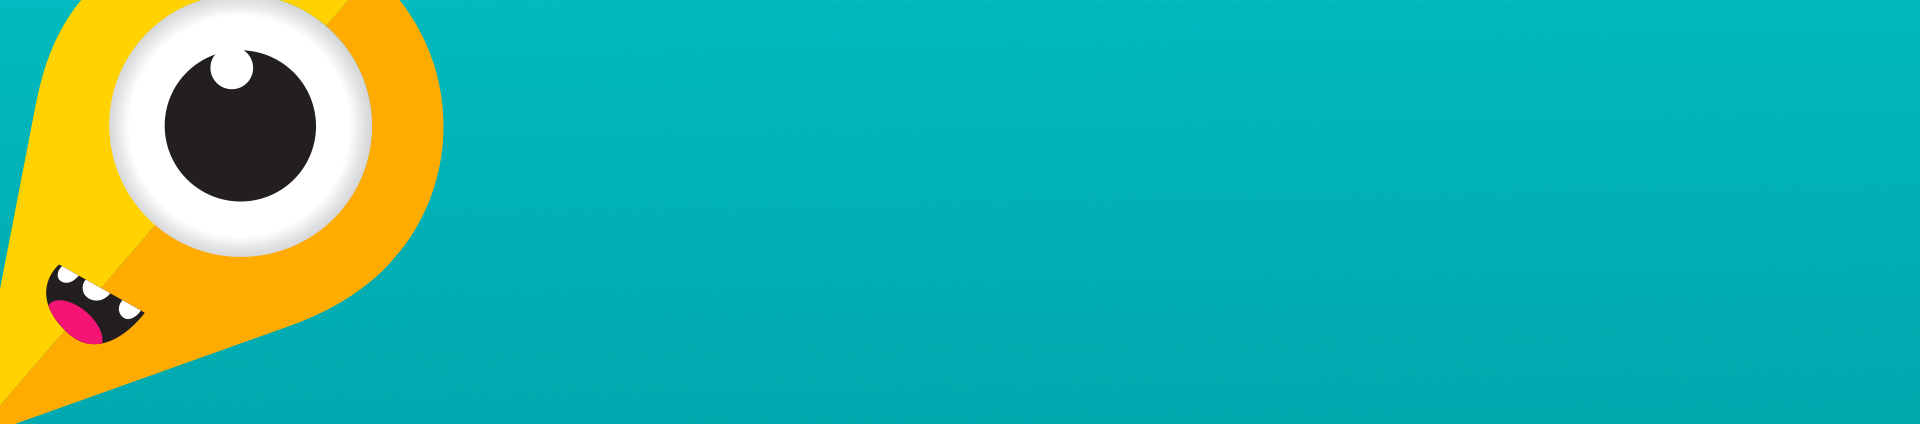
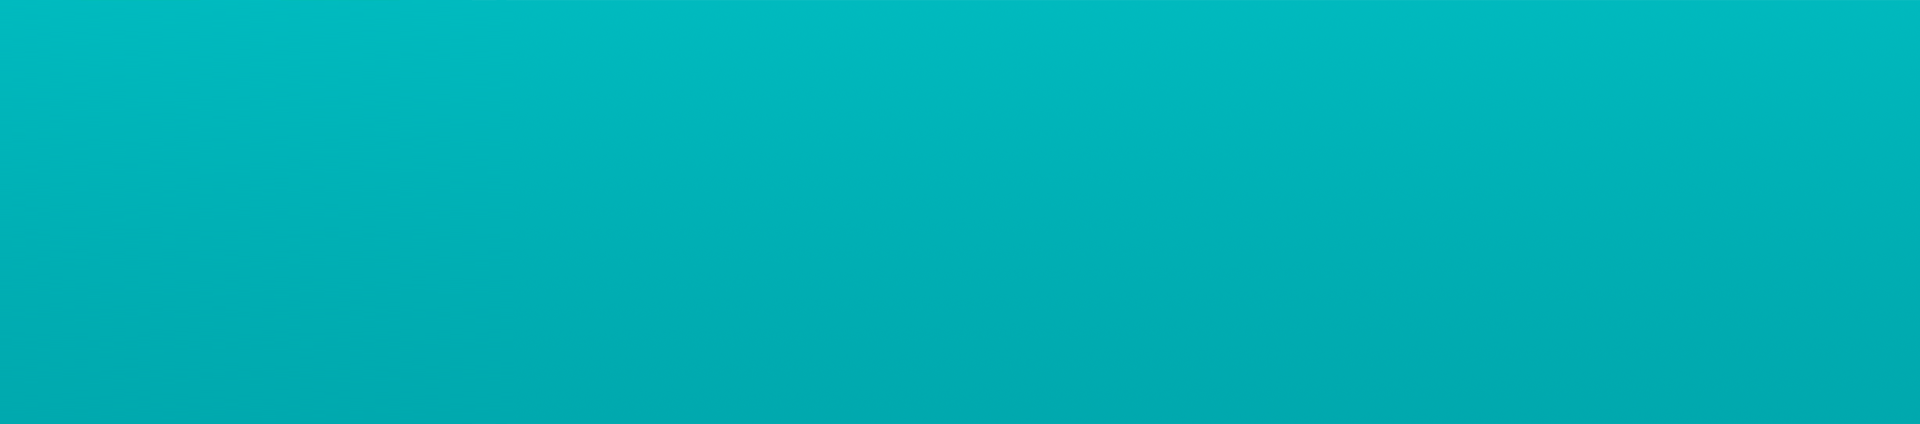
modif mise en page avec image

Changed region(s): [[0.0, 0.0, 0.25, 1.0]]

diff --git a/css/style.css b/css/style.css
@@ -31,10 +31,12 @@ section{margin-bottom:50px;border:0!important; outline: none!important;}
 .content_acceder{width:100%;margin:60px 0 0 0;padding:0;text-align:center;}
 .content_acceder a{display: inline-table;background:#ffd204;color:#fff;text-transform:uppercase;font-size:38px;padding:5px 40px;font-weight:normal;}
 .content_acceder a:hover{text-decoration:none;}
-#telecharger_appli{width:100%;padding:60px 0 190px 0;background:url(../images/back_appli_v2.png) no-repeat left top;background-size: cover;}
+#telecharger_appli{width:100%;padding:60px 0 60px 0;background:url(../images/back_appli_v2.png) no-repeat left top;background-size: cover;position:relative;}
+.oeil_gauche{position:absolute;left:0;top:0;}
+.oeil_gauche img{max-width:294px;}
 .content_down_appli{margin-top:30px;position:relative;}
-.content_oeil{position:absolute;top:0;right:0;}
-.content_oeil img{max-width:180px;}
+.content_oeil{position:absolute;top:-60px;right:0;}
+.content_oeil img{max-width:140px;}
 #telecharger_appli .titre{background:none;padding:0;font-size:22px;font-weight:bold;position:relative; z-index:100;}
 .content_down_app_telecharger_appli{width:100%;margin:0;padding:0;text-align:center;}
 .content_down_app_telecharger_appli a{display:inline-block;margin:0 10px;position:relative; z-index:100;}
@@ -86,3 +88,7 @@ section#dernier_zafer{margin-bottom:0;}
 @media screen and (max-width:767px) {
     .navbar-inverse .navbar-toggle .icon-bar{background-color: #333;}
 }
+@media screen and (max-width:640px) {
+	.content_down_app{padding-left:0;text-align:center;width:100%;}
+	.content_down_app a{margin:0 10px 20px 10px;}
+	}

diff --git a/page_accueil_road_zafer.html b/page_accueil_road_zafer.html
@@ -139,6 +139,7 @@
     </div>
   </section>
   <section id="telecharger_appli">
+    <div class="oeil_gauche"><img src="images/image_oeil_gauche.png"></div>
     <div class="container">
 <div class="content_down_appli">
       <h2 class="titre">Télécharger l’application</h2>
